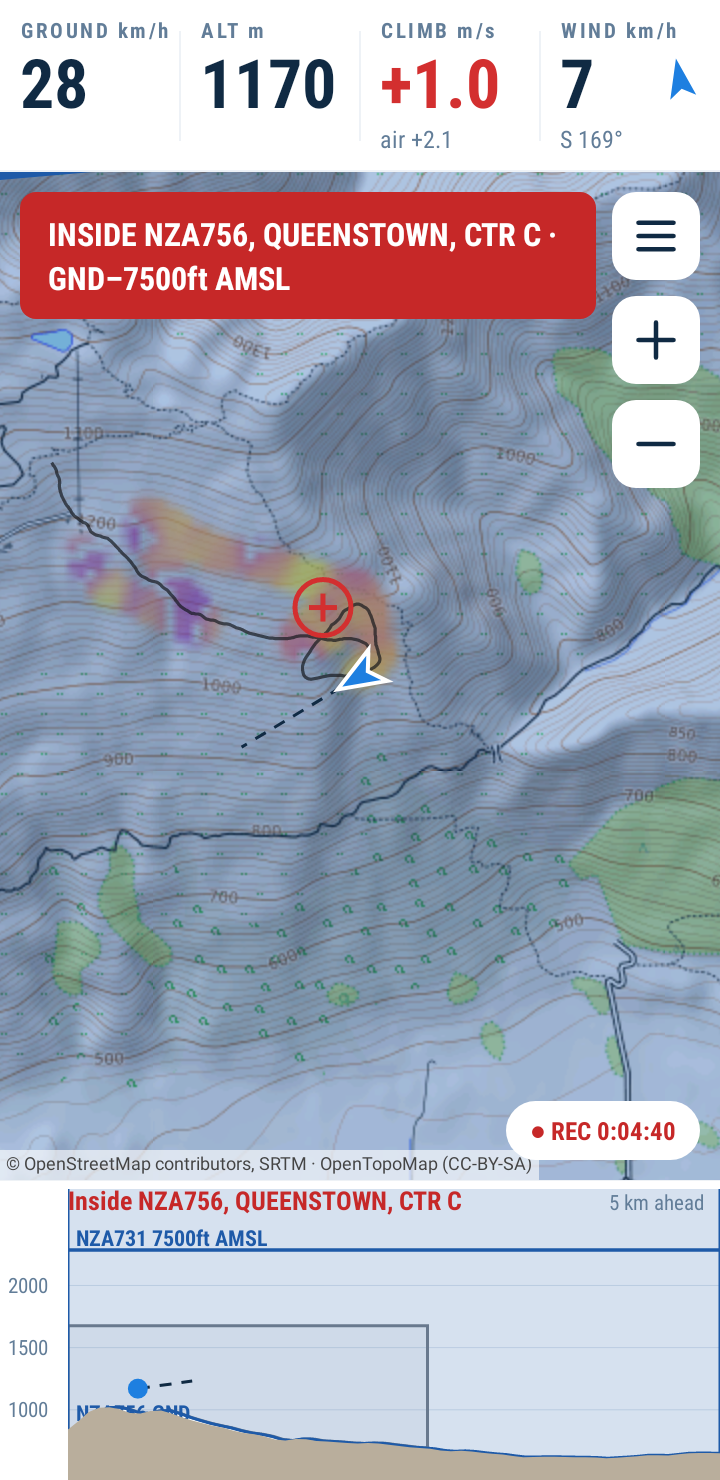
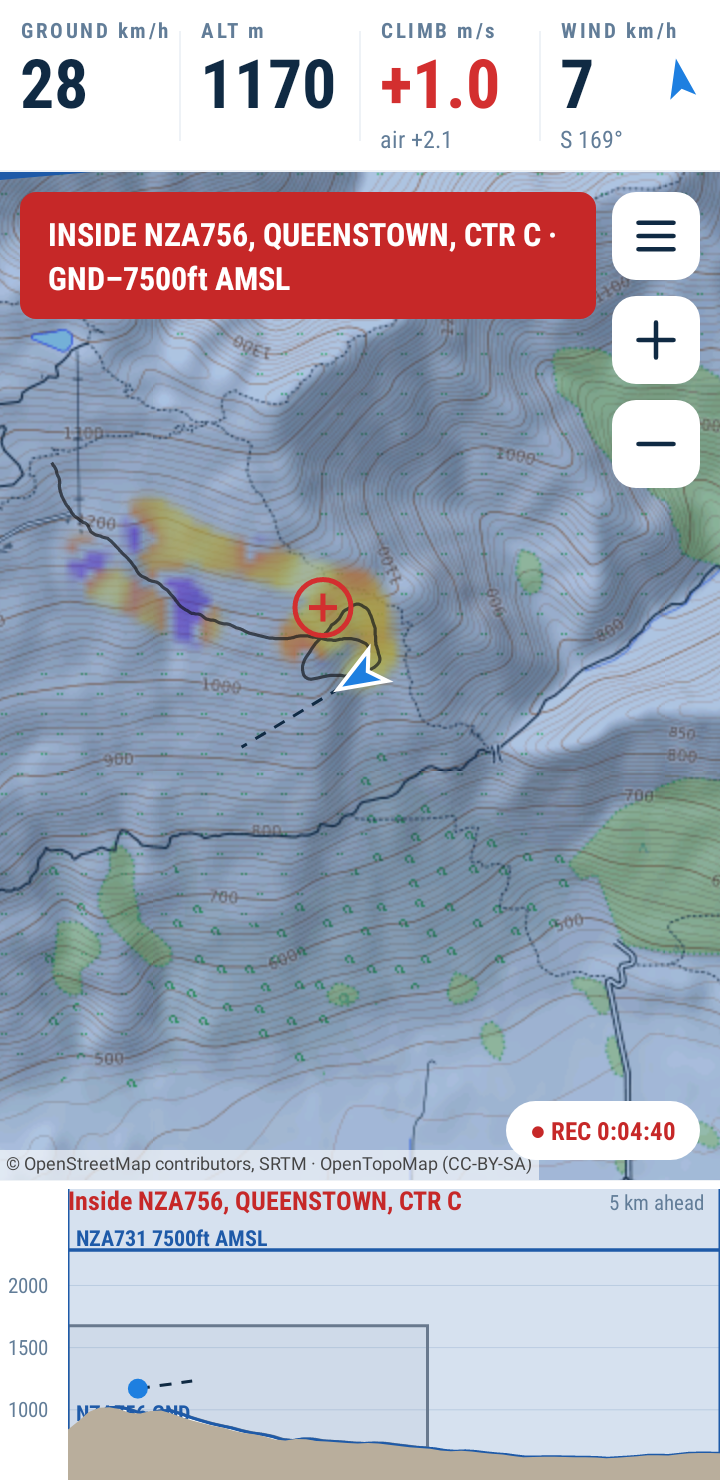
cloudbase: heat map in two colour families (violet sink, orange-yellow lift) with rising brightness
Claude-Session: https://claude.ai/code/session_01WPq8MfriARqNX7o4hLC8bK

Changed region(s): [[0.1222, 0.3419, 0.55, 0.4662]]

diff --git a/app/src/main/java/app/cloudbase/ui/HeatGrid.kt b/app/src/main/java/app/cloudbase/ui/HeatGrid.kt
@@ -70,31 +70,35 @@ class HeatGrid(val n: Int) {
         const val ALPHA = 225
 
         /**
-         * One continuous scale from sink to climb: the "plasma" colour map, deep indigo through
-         * purple, magenta and orange to bright yellow. Chosen because (1) it gets steadily
-         * brighter from one end to the other, so stronger climb is always lighter and the order
-         * survives glare and colour-blindness, where a rainbow's does not; and (2) unlike viridis
-         * it has no green or grey-blue in it, which are the colours of the map underneath.
+         * Two colour families, so whether the air is going up or down is the first thing you see,
+         * and brightness that rises all the way from strong sink to strong climb, so the order
+         * survives glare and colour-blindness:
+         *
+         *   strong sink  near-black indigo > indigo > violet   |gap|   red-orange > amber > yellow > pale yellow  strong climb
+         *
+         * Neither family has green or grey-blue in it, which are the colours of the map underneath.
+         * Each ramp is listed weakest to strongest.
          */
-        private val PLASMA = intArrayOf(0x0D0887, 0x5402A3, 0x8B0AA5, 0xB93289, 0xDB5C68, 0xF48849, 0xFEBC2A, 0xF0F921)
+        private val SINK = intArrayOf(0x9A35E8, 0x6A1FD0, 0x3F14A8, 0x1E0B6B, 0x0B0433)
+        private val LIFT = intArrayOf(0xFF4E1A, 0xFF8A00, 0xFFC400, 0xFFE83B, 0xFFF9B8)
 
         /**
-         * Where a climb value sits on the scale, 0..1. A sigmoid (tanh) centred on still air:
-         * most of the colour range is spent on the ordinary +-2 m/s where telling values apart
-         * matters, and extreme values flatten out towards the ends instead of all looking the
-         * same shade once past a hard limit. [scale] is the climb at which 76 % of the way from
-         * the middle to the end has been used.
+         * How far along its ramp a climb or sink value sits, 0..1. A sigmoid (tanh): most of the
+         * colour range is spent on ordinary values where telling them apart matters, and extreme
+         * values flatten out towards the end instead of all looking the same shade once past a
+         * hard limit. [scale] is the climb or sink at which 76 % of the ramp has been used.
          */
-        fun position(climb: Float, scale: Float): Float = 0.5f + 0.5f * tanh(climb / scale)
+        fun strength(climb: Float, scale: Float): Float = tanh(abs(climb) / scale)
 
         /** ARGB for a climb value. [coverage] 0..1 fades the edges of the mapped area and old samples. */
         fun color(climb: Float, scale: Float, coverage: Float): Int {
             if (abs(climb) <= DEAD_BAND || coverage <= 0f) return 0
-            val pos = position(climb, scale) * (PLASMA.size - 1)
-            val k = min(pos.toInt(), PLASMA.size - 2)
+            val ramp = if (climb > 0) LIFT else SINK
+            val pos = strength(climb, scale) * (ramp.size - 1)
+            val k = min(pos.toInt(), ramp.size - 2)
             val f = pos - k
-            val a = PLASMA[k]
-            val b = PLASMA[k + 1]
+            val a = ramp[k]
+            val b = ramp[k + 1]
             val r = mix(a shr 16 and 0xFF, b shr 16 and 0xFF, f)
             val g = mix(a shr 8 and 0xFF, b shr 8 and 0xFF, f)
             val bl = mix(a and 0xFF, b and 0xFF, f)

diff --git a/app/src/test/java/app/cloudbase/ui/HeatGridTest.kt b/app/src/test/java/app/cloudbase/ui/HeatGridTest.kt
@@ -65,9 +65,27 @@ class HeatGridTest {
             }
             v += 0.5f
         }
-        assertEquals(0.5f, HeatGrid.position(0f, scale), 1e-6f)
-        assertEquals(0.88f, HeatGrid.position(2.0f, scale), 0.01f)
-        assertTrue(HeatGrid.position(50f, scale) <= 1f && HeatGrid.position(-50f, scale) >= 0f)
+        assertEquals(0f, HeatGrid.strength(0f, scale), 1e-6f)
+        assertEquals(0.76f, HeatGrid.strength(2.0f, scale), 0.01f)
+        assertEquals(HeatGrid.strength(1.3f, scale), HeatGrid.strength(-1.3f, scale), 1e-6f)
+        assertTrue(HeatGrid.strength(50f, scale) <= 1f)
+    }
+
+    @Test fun upAndDownAreUnmistakablyDifferentEvenWhenWeak() {
+        // The first thing to read is the sign. Just either side of still air the two colours
+        // must be far apart, and each side must stay in its own family at every strength.
+        val weakLift = HeatGrid.color(0.4f, scale, 1f)
+        val weakSink = HeatGrid.color(-0.4f, scale, 1f)
+        assertTrue("weak lift and weak sink differ by ${distance(weakLift, weakSink)}", distance(weakLift, weakSink) > 200)
+        var v = 0.25f
+        while (v <= 6f) {
+            val up = HeatGrid.color(v, scale, 1f)
+            val down = HeatGrid.color(-v, scale, 1f)
+            // Lift is the orange/yellow family (red well above blue); sink the violet/indigo family (blue above red).
+            assertTrue("lift at $v: %06X".format(rgb(up)), (up shr 16 and 0xFF) > (up and 0xFF) + 60)
+            assertTrue("sink at $v: %06X".format(rgb(down)), (down and 0xFF) > (down shr 16 and 0xFF) + 20)
+            v += 0.25f
+        }
     }
 
     @Test fun stillAirIsNotDrawnAndOpacityIsCoverageOnly() {

diff --git a/app/src/main/java/app/cloudbase/ui/Overlays.kt b/app/src/main/java/app/cloudbase/ui/Overlays.kt
@@ -113,8 +113,8 @@ class AirspaceOverlay(context: Context) : MapView.Overlay {
 }
 
 /**
- * The lift/sink heat map: a smooth cloud over the air that has been flown through, on one
- * continuous colour scale from dark (sinking) to bright (rising).
+ * The lift/sink heat map: a smooth cloud over the air that has been flown through, violet to
+ * near-black where it was sinking and orange to pale yellow where it was rising.
  *
  * Every thermal-map cell sits on one regular lattice (they all drift together), so the cells map
  * straight onto the pixels of a small bitmap, which [HeatGrid] smooths and the canvas scales up.
@@ -196,7 +196,7 @@ class ThermalOverlay(context: Context) : MapView.Overlay, ThermalMap.Visitor {
     }
 
     companion object {
-        /** Sigmoid scale of the colour map, m/s: about three quarters of each half is used by this much climb or sink. */
+        /** Sigmoid scale of the colour ramps, m/s: about three quarters of a ramp is used by this much climb or sink. */
         const val SCALE_MS = 2.0f
         /** How strongly old, ground-fixed samples are drawn next to fresh ones: faded, still legible. */
         const val HISTORY_STRENGTH = 0.6f

diff --git a/README.md b/README.md
@@ -40,11 +40,12 @@ is carrying you on the map.
 **Map.** North-up topographic map. Airspace you must stay out of is outlined blue (controlled)
 or red (restricted, danger, military); informational airspace is thin grey. Press and hold on an
 airspace for its limits, or to ignore it. **Tap the map once to zoom in, twice to zoom out**
-(made for gloves; the + and − buttons and pinch work too). The coloured cloud is the **thermal map**, on one continuous scale
-from dark to bright: deep indigo and purple where the air was sinking, through magenta and
-orange to bright yellow where it was rising. Most of the colour range is spent on ordinary
-values (within about 2 m/s either way), and the scale has no green or grey-blue in it, so it
-does not blend into the map. It is drifting downwind with the air; the red ring marks the best lift nearby. That drift only lasts
+(made for gloves; the + and − buttons and pinch work too). The coloured cloud is the **thermal map**. Rising air is the
+orange family, from red-orange (weak) through amber and yellow to pale yellow (strong); sinking
+air is the violet family, from violet (weak) through indigo to near-black (strong). So the
+family tells you up or down at a glance, and brighter always means better. Most of each ramp is
+spent on ordinary values (within about 2 m/s), and neither has green or grey-blue in it, so it
+does not blend into the map. It drifts downwind with the air; the red ring marks the best lift nearby. That drift only lasts
 five minutes, long enough to centre the climb you are in. After that a patch is shown, faded,
 at the ground location where you met it, and stays there for the rest of the flight: thermals
 come off terrain, so the place is what is worth remembering. The map **zooms in close when you start circling** and back out when you leave.
